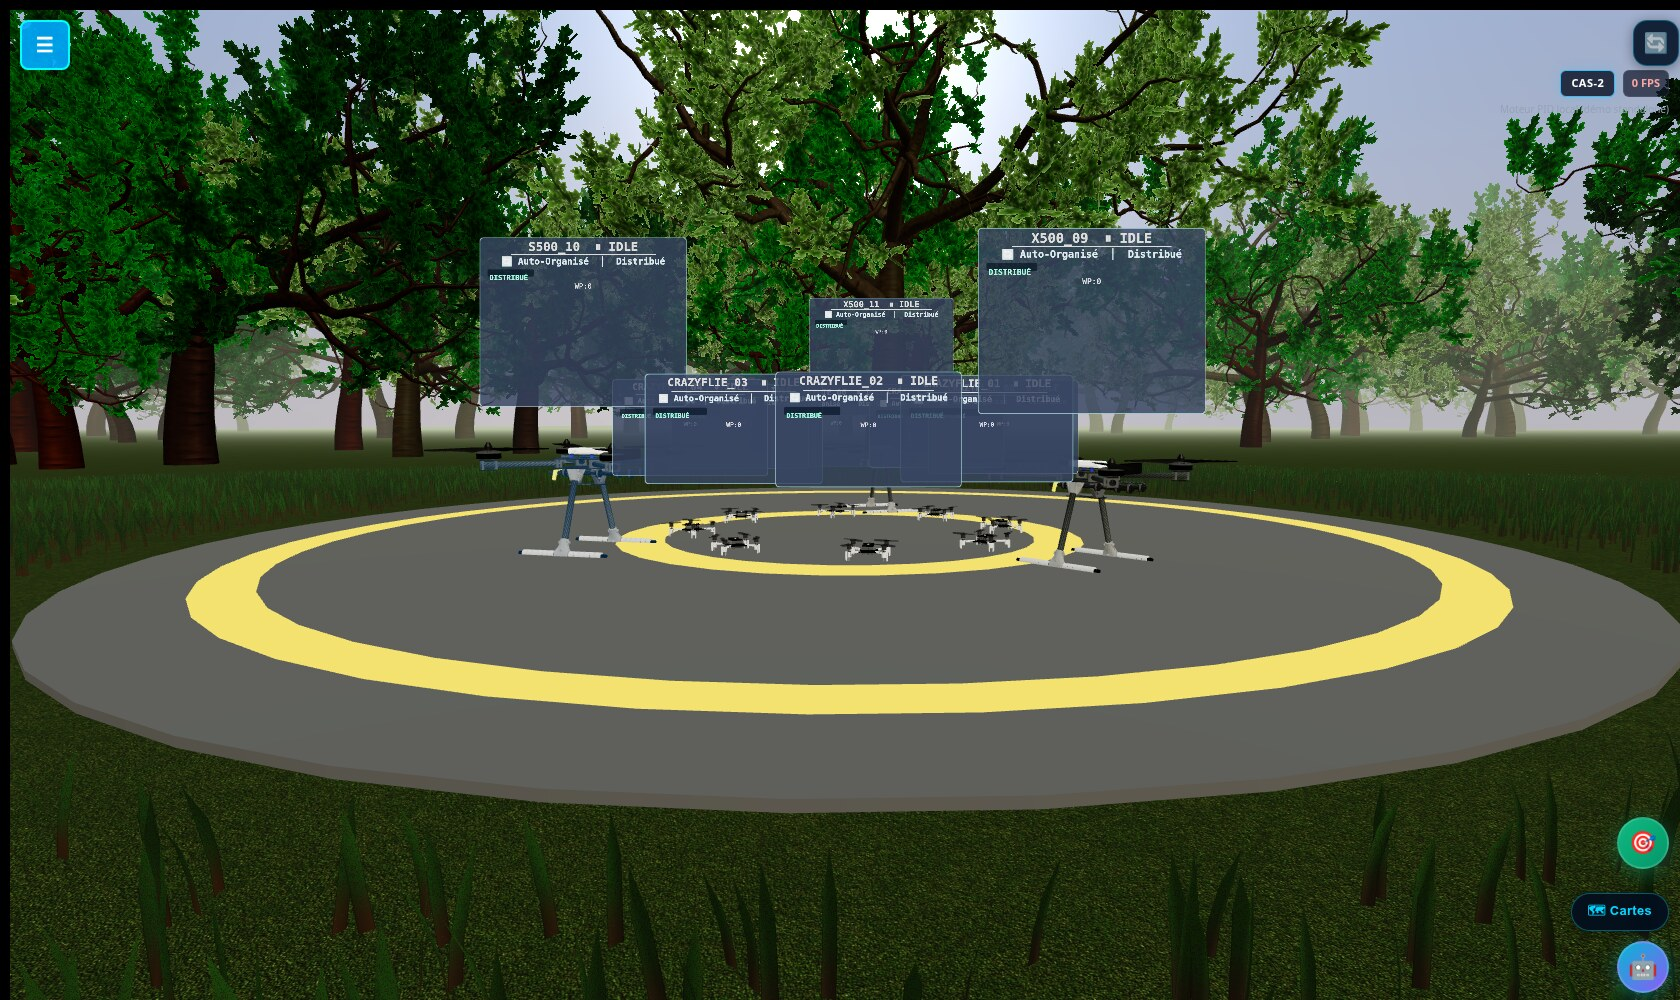
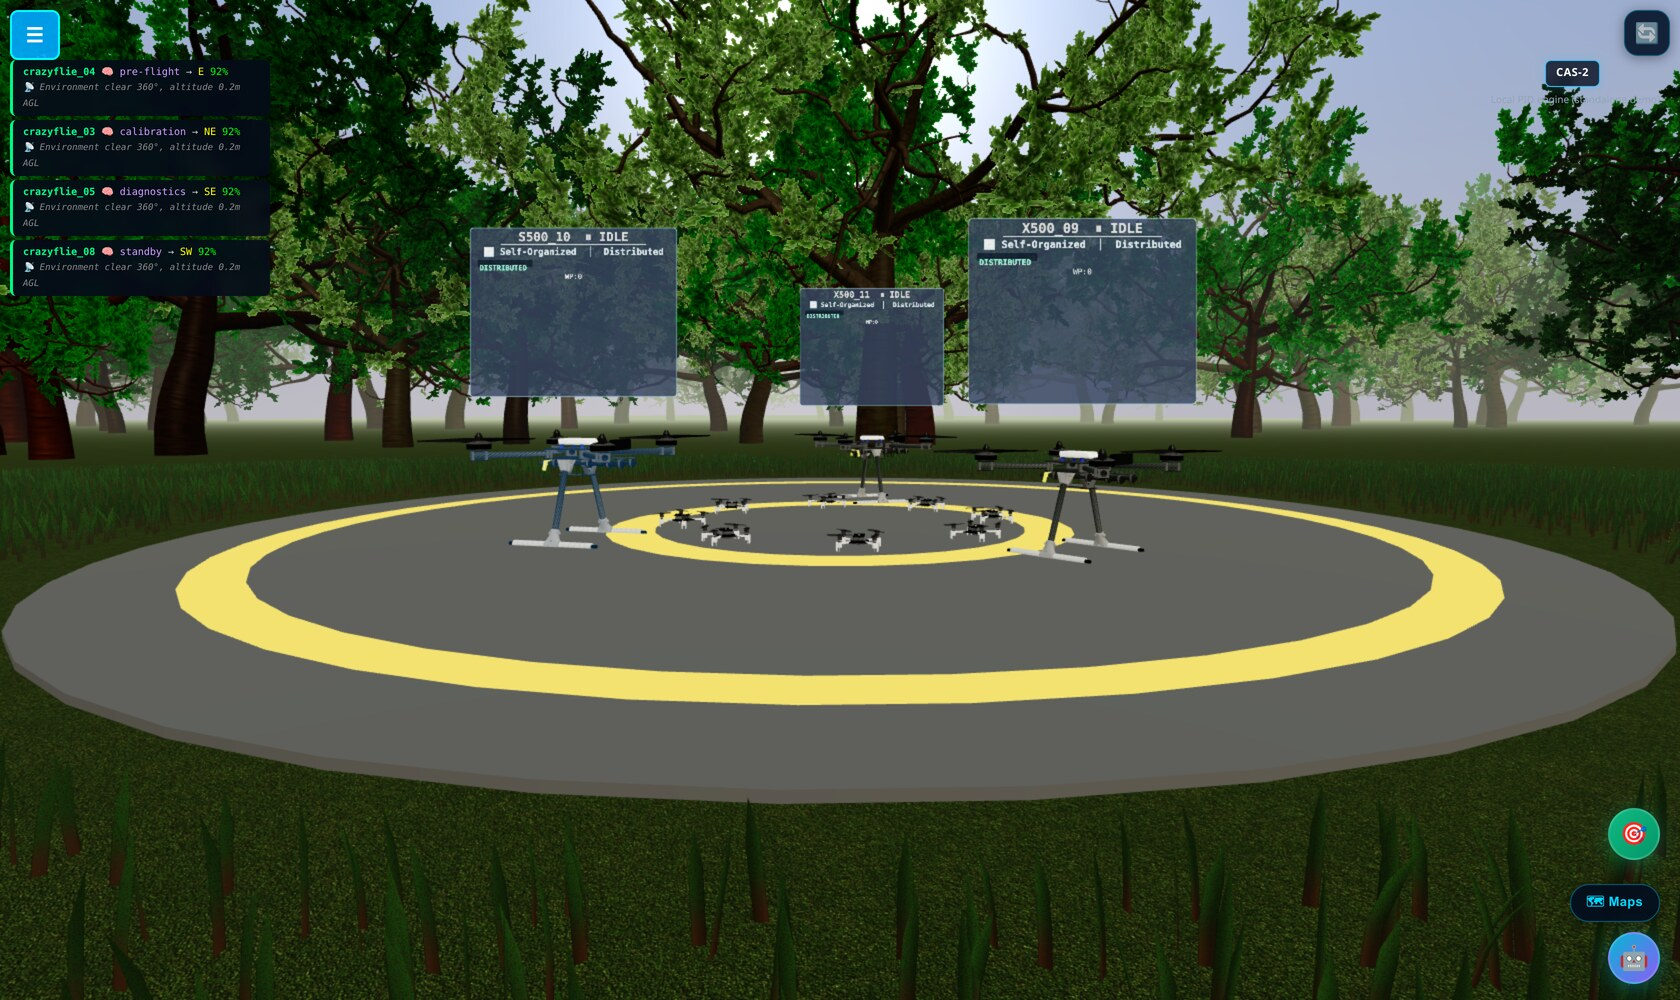
Recapture the README screenshots with the English UI
Retake the simulation and control-panel screenshots now that the
interface is in English, and translate the last few remaining labels
(system status, collective-intelligence heading, toolbar tooltips).

diff --git a/DIAMANTS_FRONTEND/Mission_system/index.html b/DIAMANTS_FRONTEND/Mission_system/index.html
@@ -1776,10 +1776,10 @@
 <body>
     <!-- DIAMANTS Forest container -->
     <!-- Bouton pour masquer/afficher le panneau -->
-    <button id="toggle_panel" onclick="togglePanel()" title="Afficher le panneau">☰</button>
+    <button id="toggle_panel" onclick="togglePanel()" title="Show panel">☰</button>
 
     <!-- ═══ AUTO-ROTATION BUTTON (top-right) ═══ -->
-    <button id="auto-rotate-btn" onclick="toggleAutoRotate()" title="Rotation automatique" style="
+    <button id="auto-rotate-btn" onclick="toggleAutoRotate()" title="Auto-rotate" style="
         position: fixed;
         top: 10px;
         right: 10px;
@@ -2043,7 +2043,7 @@
          SECTION 3: COLLECTIVE INTELLIGENCE — key metrics
          ═══════════════════════════════════════════════════════════════════ -->
     <div class="ros_panel">
-        <h3 onclick="toggleSection('metrics-content')" style="cursor: pointer;">📊 Intelligence Collective ▼</h3>
+        <h3 onclick="toggleSection('metrics-content')" style="cursor: pointer;">📊 Collective Intelligence ▼</h3>
         <div id="metrics-content">
             <div class="metric_display">
                 <div class="metric_item">
@@ -2192,8 +2192,8 @@
             <div class="mission_control" style="margin-top: 6px;">
                 <button class="btn_ros" onclick="toggleMinimap()">🗺 Minimap</button>
 
-                <button class="btn_ros" onclick="toggleDroneLabels()" id="btn-toggle-labels" style="background: linear-gradient(45deg, #2a4a6a, #3a6a9a);" title="Afficher/masquer les labels 3D">🏷 Labels</button>
-                <button class="btn_ros" onclick="toggleCommWaves()" id="btn-toggle-comm" style="background: linear-gradient(45deg, #005566, #00aabb);" title="Afficher/masquer les ondes de communication 3D">📡 Waves</button>
+                <button class="btn_ros" onclick="toggleDroneLabels()" id="btn-toggle-labels" style="background: linear-gradient(45deg, #2a4a6a, #3a6a9a);" title="Show/hide 3D labels">🏷 Labels</button>
+                <button class="btn_ros" onclick="toggleCommWaves()" id="btn-toggle-comm" style="background: linear-gradient(45deg, #005566, #00aabb);" title="Show/hide 3D comm waves">📡 Waves</button>
             </div>
         </div>
     </div>

diff --git a/DIAMANTS_FRONTEND/Mission_system/core/cas-controller.js b/DIAMANTS_FRONTEND/Mission_system/core/cas-controller.js
@@ -217,14 +217,14 @@ export class CasController {
         if (statusEl) {
             if (ic?.missionStarted) statusEl.textContent = 'Mission active';
             else if (this.backendActive) statusEl.textContent = 'Backend ROS';
-            else if (this.engineReady) statusEl.textContent = 'Autonome';
-            else statusEl.textContent = 'Initialisation';
+            else if (this.engineReady) statusEl.textContent = 'Autonomous';
+            else statusEl.textContent = 'Initializing';
         }
 
         const footer = document.getElementById('system_status_footer');
         if (footer && total > 0) {
             const flying = drones.filter((d) => d.state && d.state !== 'IDLE' && d.state !== 'LANDED').length;
-            footer.textContent = `${flying}/${total} actifs · ${meta.short} · ${this._fps || '—'} FPS`;
+            footer.textContent = `${flying}/${total} active · ${meta.short} · ${this._fps || '—'} FPS`;
         }
 
         if (!this.wsConnected) {
